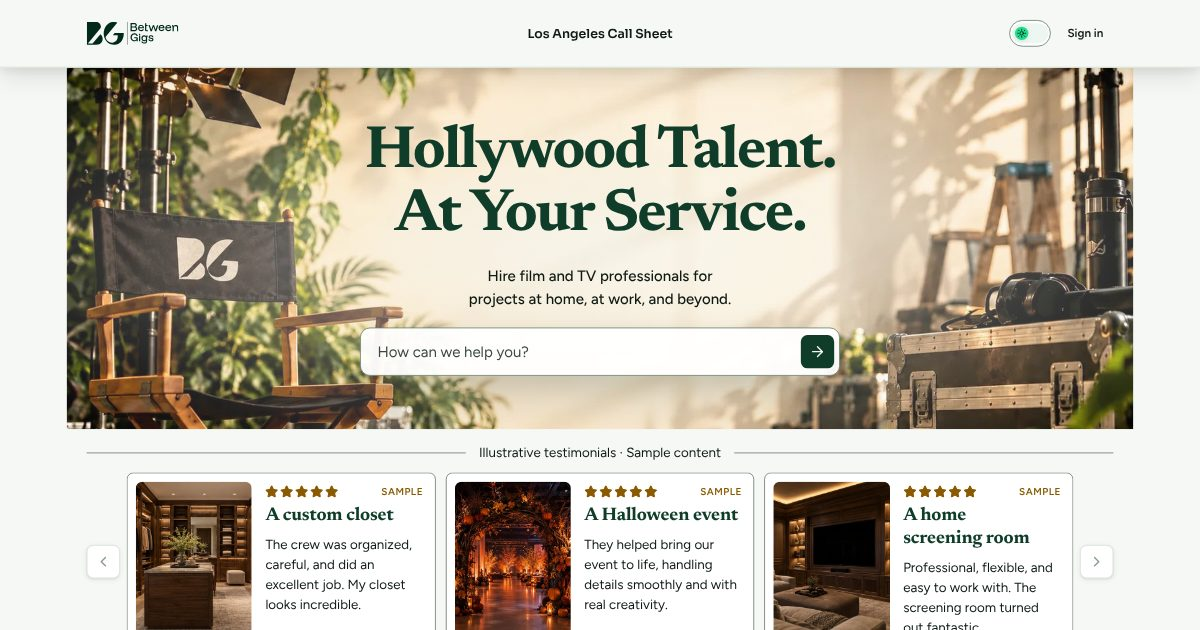
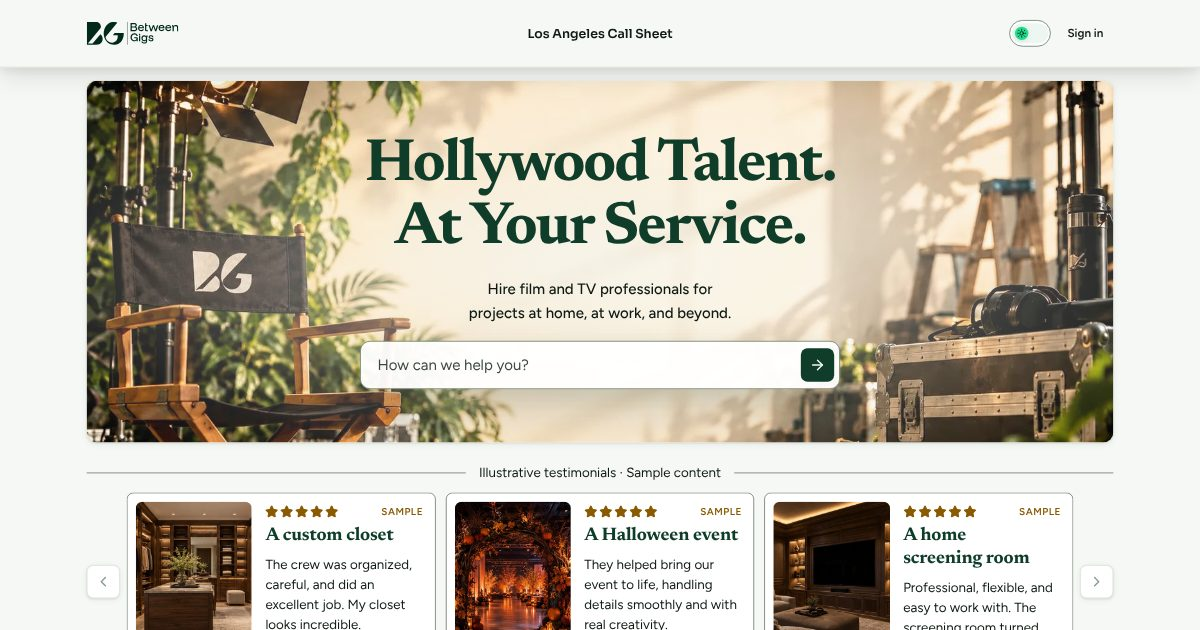
Crew Call: readable night photos and aligned hero
The night service photos were graded so dark the objects vanished; they are re-graded from the same art so only the
white backdrop becomes the dark card surface and the objects keep their colour. The hero lines up with the cards'
edges, with a little more space before the testimonials and the Crew Call heading. Art and copy unchanged.

Claude-Session: https://claude.ai/code/session_018rRyGXT71zSiBS7uQJ9HKu

diff --git a/components/crew-call/CrewCall.tsx b/components/crew-call/CrewCall.tsx
@@ -73,7 +73,9 @@ export function CrewCall() {
       {brand ? (
         <div data-client-locked="" className="bg-bg text-ink">
           {/* Hero: the client's film-set photo, the promise in the forest serif, one search. */}
-          <section aria-labelledby="cc-h" className="relative isolate mx-auto max-w-7xl overflow-hidden">
+          {/* The hero lines up with the content below it (same edges as the cards), with soft corners from sm. */}
+          <div className="mx-auto max-w-7xl sm:px-6">
+          <section aria-labelledby="cc-h" className="relative isolate overflow-hidden sm:mt-4 sm:rounded-lg sm:shadow-sm">
             <img src={asset(hero.image)} alt="" width={1600} height={800} loading="eager" className="absolute inset-0 -z-20 size-full object-cover dark:hidden" />
             <picture>
               <source media="(orientation: portrait)" srcSet={asset(crewCallDark.portrait)} />
@@ -96,9 +98,10 @@ export function CrewCall() {
               </form>
             </div>
           </section>
+          </div>
 
           {/* Sample testimonials, with arrows to page through them. */}
-          <section aria-labelledby="cc-reviews-h" className="mx-auto max-w-7xl px-4 pt-4 sm:px-6">
+          <section aria-labelledby="cc-reviews-h" className="mx-auto max-w-7xl px-4 pt-6 sm:px-6">
             <h2 id="cc-reviews-h" className="flex items-center gap-4 text-body-md text-ink before:h-px before:flex-1 before:bg-line-strong after:h-px after:flex-1 after:bg-line-strong">Illustrative testimonials · Sample content</h2>
             <Strip label="Sample testimonials" className="mt-3" itemClass="w-11/12 sm:w-2/3 lg:w-auto lg:min-w-0 lg:flex-1 lg:shrink">
               {testimonials.map((t) => (
@@ -120,7 +123,7 @@ export function CrewCall() {
           </section>
 
           {/* Crew Call */}
-          <section ref={crew} id="crew" aria-labelledby="cc-crew-h" className="mx-auto max-w-7xl scroll-mt-20 px-4 pt-8 pb-16 sm:px-6">
+          <section ref={crew} id="crew" aria-labelledby="cc-crew-h" className="mx-auto max-w-7xl scroll-mt-20 px-4 pt-12 pb-16 sm:px-6">
             <h2 id="cc-crew-h" className="flex items-center gap-6 font-serif text-display-md font-bold text-ink-deep before:h-px before:flex-1 before:bg-line-strong after:h-px after:flex-1 after:bg-line-strong sm:text-display-lg lg:text-display-xl">Crew Call</h2>
             {q && (
               <p aria-live="polite" className="mt-3 flex flex-wrap items-center justify-center gap-2 text-body-md text-ink-muted">

diff --git a/docs/feedback-2026-11-14.md b/docs/feedback-2026-11-14.md
@@ -38,3 +38,12 @@ From Justin (WhatsApp), with the client's art and copy for the homepage.
   last the review tools (themes, Unstyled). The #foundations and #themes links from the hub and Theme menu still work.
 - Page only: no component, token or other page changed. lib/design-system-library.test.ts keeps the library list in
   step with packages/design-system.
+
+## Crew Call
+
+- Justin: check light/dark, font colours and minor layout issues; the art and content are correct.
+- Dark: the night versions of the service photos were graded so dark the objects disappeared. They are re-graded
+  from the same art: only the white backdrop joined to the edges becomes the card's dark surface; the objects keep
+  their own colour (public/art/crew-call/objects/*-night.jpg).
+- Layout: the hero now lines up with the cards' edges (soft corners from sm), with a little more air before the
+  testimonials and before the Crew Call heading.
